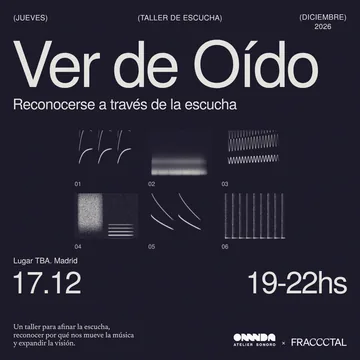
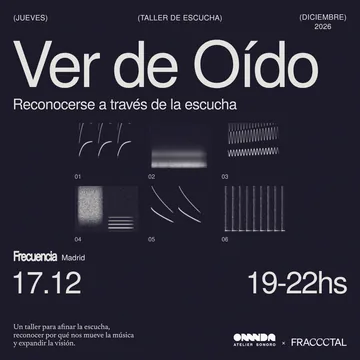
Ver de oído: flyer nuevo con Frecuencia y email de confirmación con el lugar

diff --git a/encuentro-ver-de-oido.html b/encuentro-ver-de-oido.html
@@ -10,13 +10,13 @@
 <meta property="og:url" content="https://fraccctal.com/encuentros/ver-de-oido">
 <meta property="og:title" content="Ver de oído: reconocerse a través de la escucha · Taller de ONDA Atelier Sonoro × Fraccctal · Fraccctal">
 <meta property="og:description" content="Un cierre de año distinto: un encuentro para volver a escuchar con atención, conectar lo que suena con lo que sentimos y convertirlo en un juego para imaginar el año que viene. Con Lara Alcázar (ONDA Atelier Sonoro). Jueves 17 de diciembre, Madrid.">
-<meta property="og:image" content="https://fraccctal.com/assets/img/flyer-ver-de-oido.webp">
+<meta property="og:image" content="https://fraccctal.com/assets/img/flyer-ver-de-oido.webp?v=2">
 <meta property="og:site_name" content="Fraccctal">
 <meta property="og:locale" content="es_ES">
 <meta name="twitter:card" content="summary_large_image">
 <meta name="twitter:title" content="Ver de oído: reconocerse a través de la escucha · Taller de ONDA Atelier Sonoro × Fraccctal · Fraccctal">
 <meta name="twitter:description" content="Un cierre de año distinto: un encuentro para volver a escuchar con atención, conectar lo que suena con lo que sentimos y convertirlo en un juego para imaginar el año que viene. Con Lara Alcázar (ONDA Atelier Sonoro). Jueves 17 de diciembre, Madrid.">
-<meta name="twitter:image" content="https://fraccctal.com/assets/img/flyer-ver-de-oido.webp">
+<meta name="twitter:image" content="https://fraccctal.com/assets/img/flyer-ver-de-oido.webp?v=2">
 <link rel="icon" type="image/png" href="/assets/logo/favicon-32.png">
 <link rel="apple-touch-icon" href="/assets/logo/favicon-180.png">
 <link rel="preconnect" href="https://fonts.googleapis.com">
@@ -38,7 +38,7 @@
     "name": "Frecuencia",
     "address": { "@type": "PostalAddress", "streetAddress": "C. de Lagasca, 103, local derecha", "postalCode": "28006", "addressLocality": "Madrid", "addressCountry": "ES" }
   },
-  "image": "https://fraccctal.com/assets/img/flyer-ver-de-oido.webp",
+  "image": "https://fraccctal.com/assets/img/flyer-ver-de-oido.webp?v=2",
   "performer": { "@type": "Person", "name": "Lara Alcázar" },
   "organizer": { "@type": "Organization", "name": "Fraccctal", "url": "https://fraccctal.com/" },
   "offers": [
@@ -80,7 +80,7 @@
     <!-- El precio "desde" lo rellena el script con los datos del catálogo (js/events.js). -->
     <p id="hero-datos" style="margin:-14px auto 0; font-size:0.95rem; color:var(--ink-soft); text-wrap:balance">Jueves 17 de diciembre · 19:00–22:00 · Frecuencia, Madrid<span data-precio-wrap hidden> · desde <span data-precio="min"></span>&nbsp;€</span></p>
     <div class="hero__flyer" style="margin-top:34px">
-      <img src="/assets/img/flyer-ver-de-oido.webp" alt="Ver de oído: reconocerse a través de la escucha. Taller de escucha de ONDA Atelier Sonoro × Fraccctal. Jueves 17 de diciembre de 2026, de 19 a 22 h, Frecuencia, Madrid." width="1080" height="1080" loading="lazy">
+      <img src="/assets/img/flyer-ver-de-oido.webp?v=2" alt="Ver de oído: reconocerse a través de la escucha. Taller de escucha de ONDA Atelier Sonoro × Fraccctal. Jueves 17 de diciembre de 2026, de 19 a 22 h, Frecuencia, Madrid." width="1080" height="1080" loading="lazy">
     </div>
   </div>
 </header>

diff --git a/netlify/functions/stripe-webhook.js b/netlify/functions/stripe-webhook.js
@@ -124,9 +124,9 @@ const EVENT_EMAIL_CONTENT = {
     typeLabel: "Encuentro de cierre de año, en colaboración con ONDA Atelier Sonoro,",
     dateTimeLabel: "Jueves 17 de diciembre de 2026, de 19:00 a 22:00 h",
     dayLabel: "17",
-    // Lugar por confirmar: actualizar aquí en cuanto se cierre el espacio, y mandar
-    // entonces un correo con el lugar y la dirección a quienes ya hayan comprado.
-    venueLabel: "Madrid. Estamos terminando de confirmar el espacio: en cuanto lo tengamos, te escribimos por email para decirte dónde es",
+    // Pendiente: mandar un correo con el lugar a quienes compraron antes de que
+    // se confirmara el espacio (cuando Irina avise de que el acuerdo está firmado).
+    venueLabel: "Frecuencia · Madrid (C. de Lagasca, 103, local derecha, 28006 Madrid, metro Núñez de Balboa)",
     // Sin capacityWord a propósito: este taller no dice cuántas plazas hay.
     queTraer:
       "Auriculares, si quieres. No hace falta saber de música: solo curiosidad, ganas de escuchar y disposición para experimentar.",

diff --git a/js/events.js b/js/events.js
@@ -77,8 +77,8 @@ const FRACCCTAL_EVENTS = [
     dateMonth: "DIC",
     dateSort: "2026-12-17",
     venue: "Frecuencia",
-    flyer: "/assets/img/flyer-ver-de-oido.webp",
-    flyerThumb: "/assets/img/flyer-ver-de-oido-thumb.webp",
+    flyer: "/assets/img/flyer-ver-de-oido.webp?v=2",
+    flyerThumb: "/assets/img/flyer-ver-de-oido-thumb.webp?v=2",
     city: "Madrid",
     price: "Early bird 16€ · General 19€",
     founderPrice: "",
